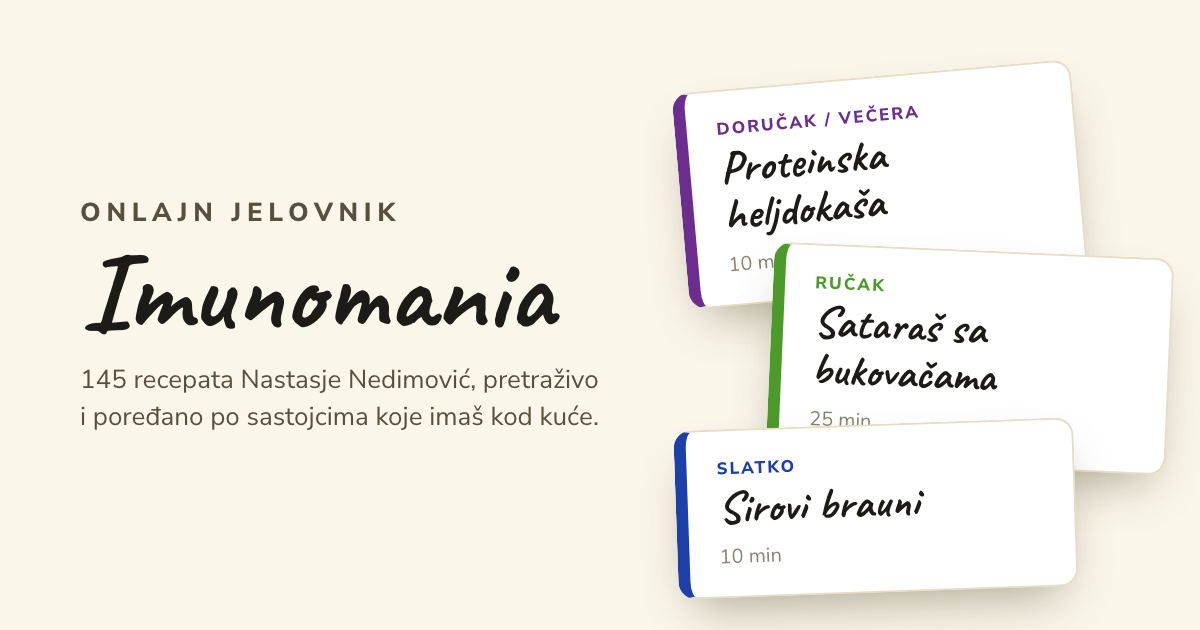
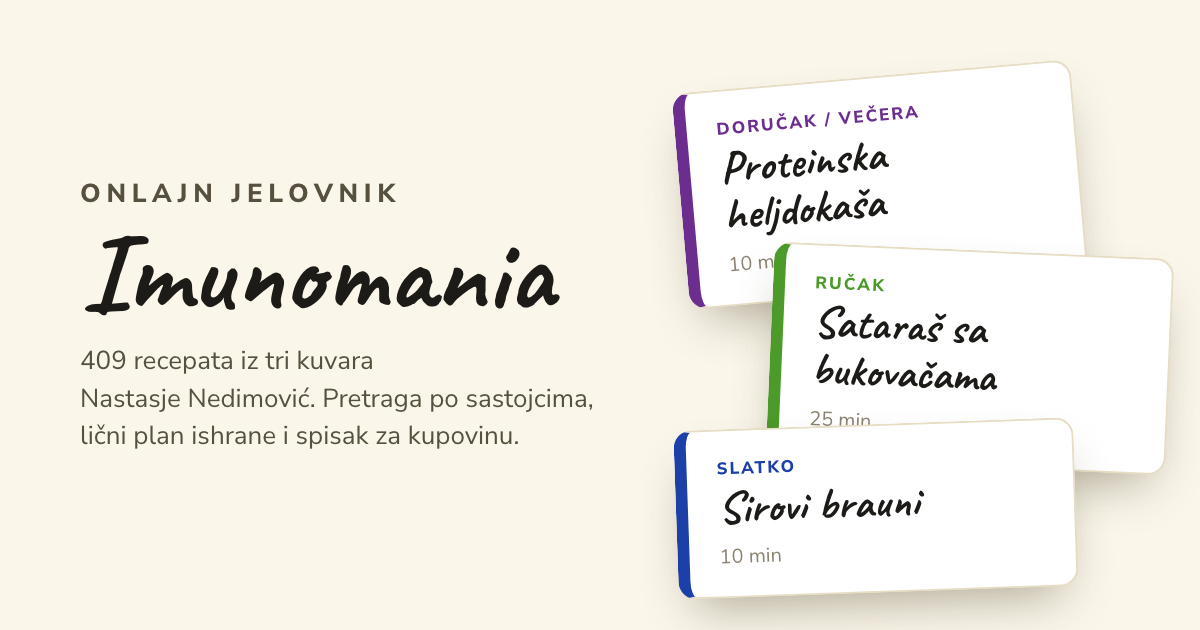
Update the link preview card text
The share card still said 145 recipes from the first book. It now
mentions 409 recipes from all three books, ingredient search, the
personal meal plan and the shopping list. The image URL carries a
version query so messaging apps fetch the new image.

Changed region(s): [[0.0617, 0.2714, 0.4933, 0.7238]]

diff --git a/index.html b/index.html
@@ -8,7 +8,7 @@
 <meta name="author" content="Nastasja Nedimović">
 <meta name="theme-color" content="#f6f1e2">
 <link rel="canonical" href="https://codeisvibing.github.io/online-jelovnik/">
-<link rel="image_src" href="https://codeisvibing.github.io/online-jelovnik/assets/og-card.png">
+<link rel="image_src" href="https://codeisvibing.github.io/online-jelovnik/assets/og-card.png?v=2">
 
 <link rel="icon" href="assets/favicon.svg" type="image/svg+xml">
 <link rel="icon" href="assets/favicon-32.png" sizes="32x32" type="image/png">
@@ -20,8 +20,8 @@
 <meta property="og:url" content="https://codeisvibing.github.io/online-jelovnik/">
 <meta property="og:title" content="Imunomania · onlajn jelovnik">
 <meta property="og:description" content="Recepti iz tri kuvara Nastasje Nedimović: Imunomania, Imunomania 2 i Smoothiemania. Pretraga jela, filter po sastojcima, lični plan ishrane i spisak za kupovinu.">
-<meta property="og:image" content="https://codeisvibing.github.io/online-jelovnik/assets/og-card.png">
-<meta property="og:image:secure_url" content="https://codeisvibing.github.io/online-jelovnik/assets/og-card.png">
+<meta property="og:image" content="https://codeisvibing.github.io/online-jelovnik/assets/og-card.png?v=2">
+<meta property="og:image:secure_url" content="https://codeisvibing.github.io/online-jelovnik/assets/og-card.png?v=2">
 <meta property="og:image:type" content="image/png">
 <meta property="og:image:width" content="1200">
 <meta property="og:image:height" content="630">
@@ -29,7 +29,7 @@
 <meta name="twitter:card" content="summary_large_image">
 <meta name="twitter:title" content="Imunomania · onlajn jelovnik">
 <meta name="twitter:description" content="Recepti iz tri kuvara Nastasje Nedimović: Imunomania, Imunomania 2 i Smoothiemania. Pretraga jela, filter po sastojcima, lični plan ishrane i spisak za kupovinu.">
-<meta name="twitter:image" content="https://codeisvibing.github.io/online-jelovnik/assets/og-card.png">
+<meta name="twitter:image" content="https://codeisvibing.github.io/online-jelovnik/assets/og-card.png?v=2">
 <link rel="preconnect" href="https://fonts.googleapis.com">
 <link rel="preconnect" href="https://fonts.gstatic.com" crossorigin>
 <link href="https://fonts.googleapis.com/css2?family=Caveat:wght@600;700&family=Nunito+Sans:wght@300;400;600;700&display=swap" rel="stylesheet">
@@ -365,7 +365,7 @@
     <p><a href="https://www.instagram.com/cancer.influencer/" target="_blank" rel="noopener noreferrer">Nastasja Nedimović</a></p>
     <p class="foot-sm">Iz kuvara „Imunomania". Sadržaj pripada autorki.</p>
   </div>
-  <p class="foot-note">Pregled servisa, verzija 1.25.0.</p>
+  <p class="foot-note">Pregled servisa, verzija 1.25.1.</p>
 </footer>
 
 <script src="assets/app.js"></script>

diff --git a/CHANGELOG.md b/CHANGELOG.md
@@ -2,6 +2,11 @@
 
 Format prati [Keep a Changelog](https://keepachangelog.com/), verzije prate [SemVer](https://semver.org/).
 
+## [1.25.1] · 2026-10-10
+
+### Promenjeno
+- Kartica koja se prikazuje kad se link pošalje preko WhatsApp-a, Vibera i sličnih aplikacija ima novi tekst: 409 recepata iz tri kuvara, pretraga po sastojcima, lični plan ishrane i spisak za kupovinu. Ranije je pisalo 145 recepata. Adresa slike dobila je oznaku verzije, pa aplikacije učitavaju novu sliku
+
 ## [1.25.0] · 2026-10-10
 
 ### Promenjeno
